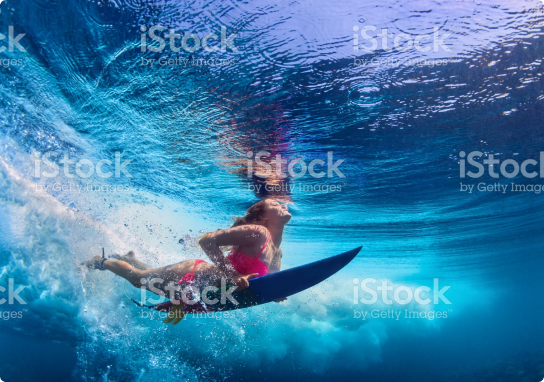
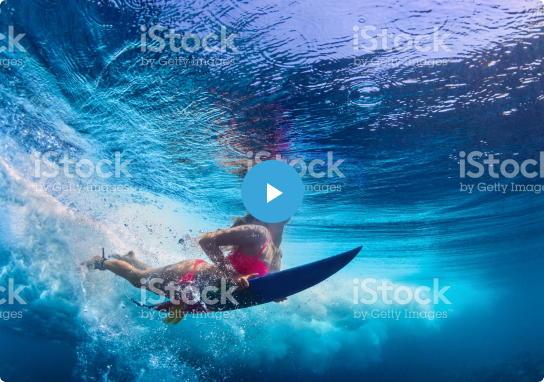
Finish nav and top.

Changed region(s): [[0.4375, 0.4031, 0.5625, 0.6335]]

diff --git a/src/styles/call-to-action.css b/src/styles/call-to-action.css
@@ -1,7 +1,7 @@
 .top {
-  height: 1000px;
+  height: 100rem;
   background-image: url("../assets/background.png");
-  background-position: calc(50% - 80px) calc(50% - 35px);
+  background-position: calc(50% - 8rem) calc(50% - 3.5rem);
   background-repeat: no-repeat;
   display: flex;
   flex-direction: column;
@@ -13,21 +13,21 @@
   display: flex;
   justify-content: space-around;
   align-items: center;
-  margin-bottom: 150px;
+  margin-bottom: 15rem;
 }
 
 .call-to-action-left {
-  width: 430px;
-  margin-top: 300px;
-  margin-right: 20px;
+  width: 43rem;
+  margin-top: 20rem;
+  margin-right: 2rem;
 }
 
-.text__main {
-  font-size: 2rem;
+.text-main {
+  font-size: 4rem;
   font-weight: 700;
-  line-height: 56px;
-  letter-spacing: 0.2px;
-  margin-bottom: 50px;
+  line-height: 5.6rem;
+  letter-spacing: 0.02rem;
+  margin-bottom: 5rem;
 }
 
 .subscribe-text {
@@ -35,7 +35,7 @@
 }
 
 .subscription {
-  margin-top: 20px;
+  margin-top: 2rem;
   position: relative;
 }
 
@@ -48,13 +48,70 @@
   right: 0;
 }
 
-.video {
-  position: relative;
-  margin-top: 200px;
+.arrow--small-screen {
+  display: none;
 }
 
-.play-button {
-  position: absolute;
-  left: calc(50% - 75px);
-  top: calc(50% - 90px);
+.video {
+  margin-top: 10rem;
+}
+
+@media screen and (max-width: 1070px) { 
+  .top {
+    background-position: calc(50% - 8rem) calc(50% - 13rem);
+  }
+
+  .call-to-action {
+    flex-direction: column;
+    width: 80%;
+  }
+
+  .call-to-action-left {
+    margin: 15rem 0 17rem 0;
+    width: 100%;
+  }
+
+  .text-main {
+    margin-bottom: 7rem;
+  }
+
+  .arrow--small-screen {
+    display: block;
+  }
+
+  .video {
+    width: 80%;
+  }
+
+  .arrow--large-screen {
+    display: none;
+  }
+}
+
+@media screen and (max-width: 500px) { 
+  .call-to-action {
+    width: 90%;
+  }
+
+  .call-to-action-left {
+    margin: 10rem 0 6rem 0;
+  }
+  
+  .subscription {
+    position: static;
+  }
+  
+  .text-input--subscription {
+    margin-bottom: 2rem;
+    width: 100%;
+  }
+
+  .button--subscribe {
+    position: static;
+    width: 100%;
+  }
+
+  .video {
+    width: 100%;
+  }
 }

diff --git a/src/index.html b/src/index.html
@@ -10,11 +10,23 @@
 
 <body>
   <main>
+    <nav>
+      <img class="logo" src="assets/logo.svg">
+      <div class="nav-right">
+        <a class="link link--nav" href="#">ICO</a>
+        <a class="link link--nav" href="#">Team</a>
+        <a class="link link--nav" href="#">Contact</a>
+      </div>
+    </nav>
+    <div class="social">
+      <img class="social-link social-link--twitter" src="assets/twitter.svg">
+      <img class="social-link social-link--facebook" src="assets/facebook.svg">
+    </div>
     <section class="top">
       <div class="call-to-action">
         <div class="call-to-action-left">
           <header>
-            <h1 class="text__main">The first fully-automatic social crypto trading platform with real crypto
+            <h1 class="text-main">The first fully-automatic social crypto trading platform with real crypto
               currency</h1>
           </header>
           <p class="subscribe-text">Subscribe and get the lastes information</p>
@@ -23,12 +35,19 @@
             <button class="button button--subscribe">Subscribe</button>
           </div>
         </div>
-        <div class="video">
-          <img src="assets/video.png">
-          <img class="play-button" src="assets/play button.png">
-        </div>
+        <img class="arrow arrow--small-screen" src="./assets/down arrow.png">
+        <img class="video" src="assets/video.png">
       </div>
-      <img src="./assets/down arrow.png">
+      <img class="arrow arrow--large-screen" src="./assets/down arrow.png">
+    </section>
+    <section class="team">
+      <h1 class="header header--team">TEAM</h1>
+      <div class="team-member">
+        <img href="assets/team1.png">
+        <h1>Edgar Morrison</h1>
+        <h2>CEO</h2>
+        <p>Having used discount toner cartridges for twenty years, there have been a lot of changes in the toner...</p>
+      </div>
     </section>
   </main>
 </body>

diff --git a/src/styles/main.css b/src/styles/main.css
@@ -1,23 +1,39 @@
-@import url('https://fonts.googleapis.com/css2?family=Sen:wght@400;700&display=swap');
+@import url("https://fonts.googleapis.com/css2?family=Sen:wght@400;700&display=swap");
 
-main {
-	max-width: 1627px;
-	width: 100%;
-	margin: 0 auto;
+:root {
+  font-size: 62.5%;
 }
 
-p, h1 {
-	font-family: "Sen", Helvetica, monospace;
-	color: #FFFFFF;
-	font-size: 0.8rem;
+/* @media (-webkit-min-device-pixel-ratio: 2) and (min-resolution: 192dpi) {
+  :root {
+    font-size: 125%;
+  }
+} */
+
+main {
+  max-width: 1627px;
+  width: 100%;
+  margin: 0 auto;
+}
+
+p,
+h1,
+h2,
+a,
+button,
+input::placeholder {
+  font-family: "Sen", Helvetica, monospace;
+  color: #ffffff;
+  font-size: 1.4rem;
+  text-decoration: none;
 }
 
 .text-input {
   font-family: "Sen", Helvetica, monospace;
-  height: 38px;
+  height: 3.8rem;
   border: none;
-  border-radius: 1000px;
-  padding: 0 12px;
+  border-radius: 100rem;
+  padding: 0 1.2rem;
 }
 
 .text-input::placeholder {
@@ -27,9 +43,9 @@ p, h1 {
 button {
   font-family: "Sen", Helvetica, monospace;
   border: none;
-  height: 38px;
-  padding: 0 30px;
-  border-radius: 1000px;
-  background-color: #38A5DB;
+  height: 3.8rem;
+  padding: 0 3rem;
+  border-radius: 100rem;
+  background-color: #38a5db;
   color: white;
 }

diff --git a/src/styles/nav.css b/src/styles/nav.css
@@ -1,0 +1,58 @@
+nav {
+  position: fixed;
+  left: 0;
+  top: 0;
+  width: 100%;
+  height: 7rem;
+  background-color: white;
+  display: flex;
+  align-items: center;
+  justify-content: space-between;
+  padding-left: 15rem;
+  padding-right: 13rem;
+}
+
+.link--nav {
+  display: inline-block;
+  padding: 0.5rem 0.2rem;
+  margin-right: 2.3rem;
+  color: #1C2085;
+  font-size: 1.6rem;
+}
+
+.link--nav:first-child {
+  border-bottom: 2px solid #1C2085;
+}
+
+.link--nav:last-child {
+  margin-right: 0;
+}
+
+@media screen and (max-width: 1070px) {
+  nav {
+    padding-left: 2rem;
+    padding-right: 2rem;
+  }
+
+  .link--nav {
+    margin-right: 3rem;
+  }
+
+  .link--nav:last-child {
+    margin-right: 0;
+  }
+}
+
+@media screen and (max-width: 500px) {
+  .logo {
+    width: 6rem;
+  }
+
+  .link--nav {
+    margin-right: 1rem;
+  }
+
+  .link--nav:last-child {
+    margin-right: 0;
+  }
+}

diff --git a/src/styles/social.css b/src/styles/social.css
@@ -1,0 +1,21 @@
+.social {
+  position: fixed;
+  bottom: 2rem;
+  right: 10rem;
+  display: flex;
+  flex-direction: column;
+}
+
+.social-link {
+  margin-bottom: 1rem;
+}
+
+.social-link:last-child {
+  margin-bottom: 0;
+}
+
+@media screen and (max-width: 1070px) { 
+  .social {
+    right: 2rem;
+  }
+}

diff --git a/webpack.common.js b/webpack.common.js
@@ -13,7 +13,7 @@ module.exports = {
         use: ["html-loader"],
       },
       {
-        test: /\.(svh|png|jpg|gif)$/,
+        test: /\.(svg|png|jpg|gif)$/,
         use: {
           loader: "file-loader",
           options: {

diff --git a/src/index.js b/src/index.js
@@ -1,3 +1,5 @@
 import "./styles/reset.css";
 import "./styles/main.css";
+import "./styles/nav.css";
+import "./styles/social.css";
 import "./styles/call-to-action.css";
